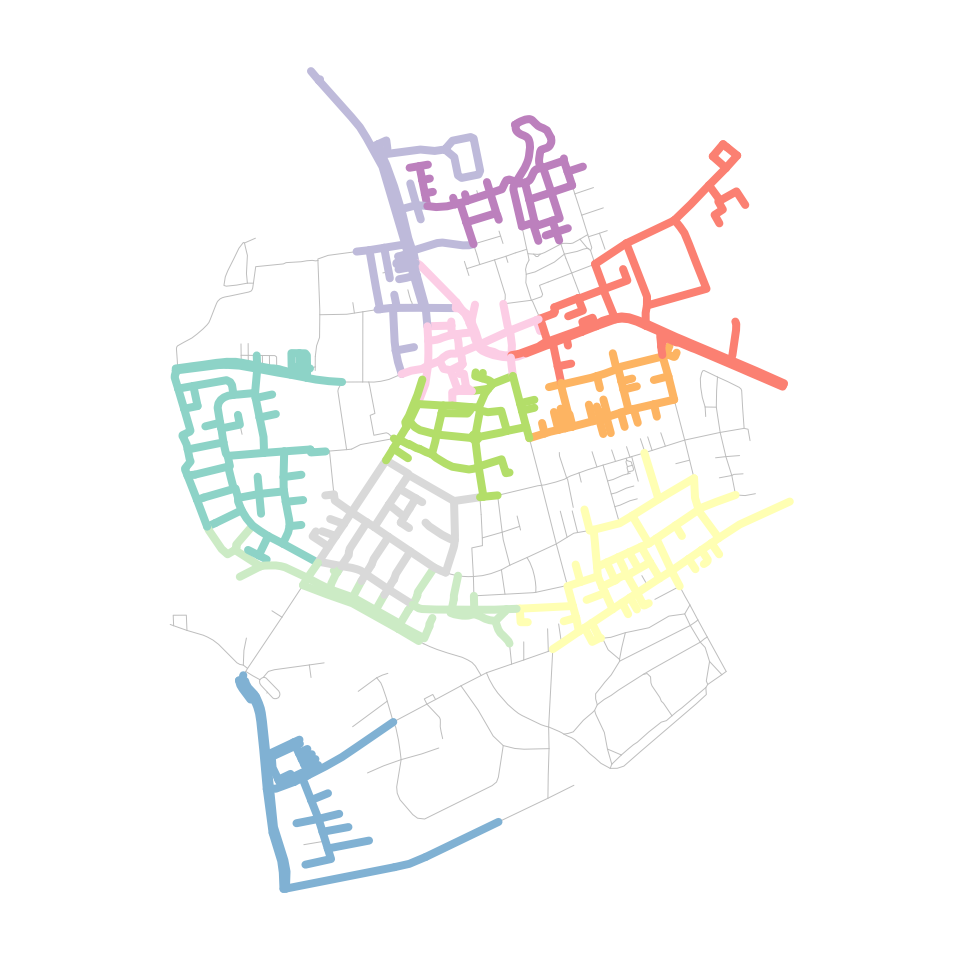
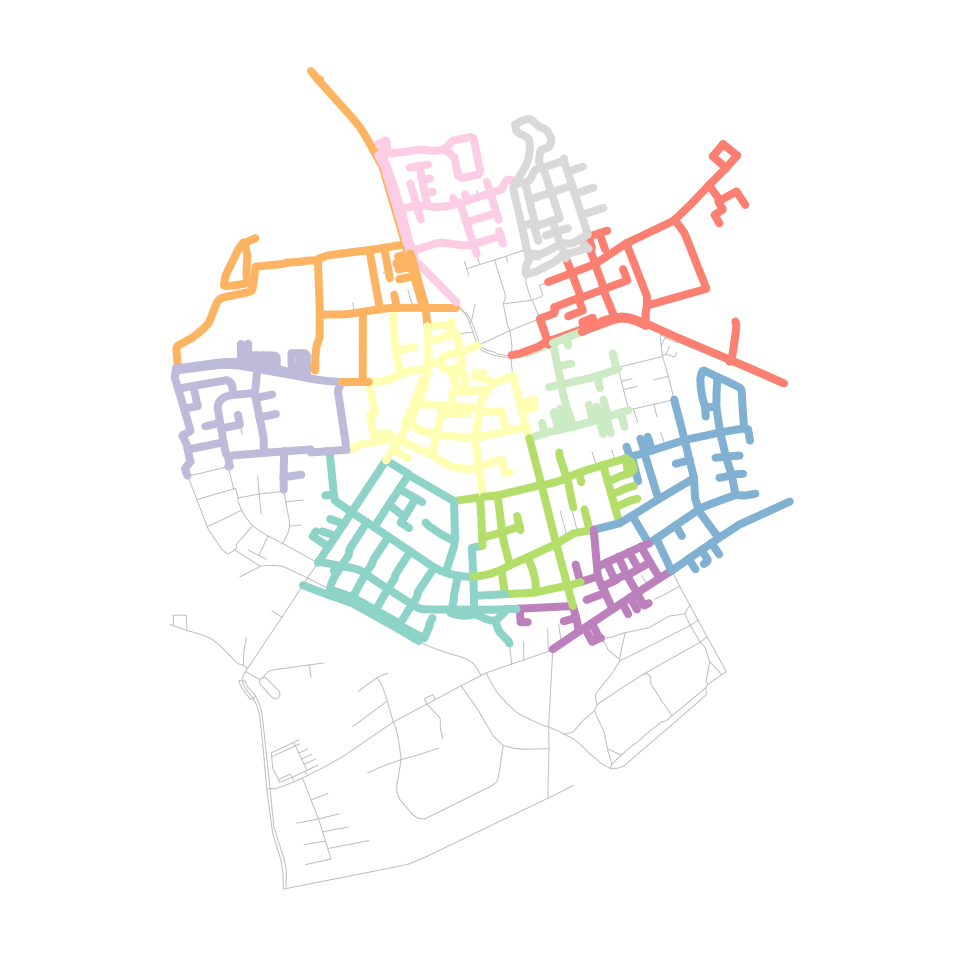
Built site for sfnetworks: 0.6.2@ba38d13

diff --git a/articles/sfn02_preprocess_clean.html b/articles/sfn02_preprocess_clean.html
@@ -461,12 +461,12 @@ different combination techniques when simplifying the network.</p>
 <span><span class="co">#&gt; # Bounding box:  xmin: 0 ymin: -1 xmax: 7 ymax: 3</span></span>
 <span><span class="co">#&gt;    from    to              x  flow type    foo bar  </span></span>
 <span><span class="co">#&gt;   &lt;int&gt; &lt;int&gt;   &lt;LINESTRING&gt; &lt;int&gt; &lt;chr&gt; &lt;int&gt; &lt;chr&gt;</span></span>
-<span><span class="co">#&gt; 1    10     9 (6 1.2, 5.8 1)     2 path     11 b    </span></span>
-<span><span class="co">#&gt; 2    11    10 (6.2 1, 6 1.2)    10 path      9 n    </span></span>
-<span><span class="co">#&gt; 3     9    12 (5.8 1, 6 0.8)     3 path      4 m    </span></span>
-<span><span class="co">#&gt; 4    12    11 (6 0.8, 6.2 1)     8 path      8 d    </span></span>
-<span><span class="co">#&gt; 5    11    15   (6.2 1, 7 1)     7 path      1 q    </span></span>
-<span><span class="co">#&gt; 6    10    13   (6 1.2, 6 2)     3 path      7 f    </span></span>
+<span><span class="co">#&gt; 1    10     9 (6 1.2, 5.8 1)     9 path     11 s    </span></span>
+<span><span class="co">#&gt; 2    11    10 (6.2 1, 6 1.2)     5 path     15 v    </span></span>
+<span><span class="co">#&gt; 3     9    12 (5.8 1, 6 0.8)     1 path      5 z    </span></span>
+<span><span class="co">#&gt; 4    12    11 (6 0.8, 6.2 1)     4 path      4 c    </span></span>
+<span><span class="co">#&gt; 5    11    15   (6.2 1, 7 1)     3 path      3 j    </span></span>
+<span><span class="co">#&gt; 6    10    13   (6 1.2, 6 2)     8 path     13 b    </span></span>
 <span><span class="co">#&gt; # … with 9 more rows</span></span>
 <span><span class="co">#&gt; #</span></span>
 <span><span class="co">#&gt; # Node Data:     15 × 1</span></span>
@@ -494,8 +494,8 @@ different combination techniques when simplifying the network.</p>
 <span><span class="co">#&gt; # A tibble: 2 × 7</span></span>
 <span><span class="co">#&gt;    from    to               x  flow type    foo bar  </span></span>
 <span><span class="co">#&gt;   &lt;int&gt; &lt;int&gt;    &lt;LINESTRING&gt; &lt;int&gt; &lt;chr&gt; &lt;int&gt; &lt;chr&gt;</span></span>
-<span><span class="co">#&gt; 1     6     7      (4 3, 4 2)     8 path     13 g    </span></span>
-<span><span class="co">#&gt; 2     6     7 (4 3, 5 2, 4 2)     1 road      2 h</span></span></code></pre>
+<span><span class="co">#&gt; 1     6     7      (4 3, 4 2)    10 path      2 f    </span></span>
+<span><span class="co">#&gt; 2     6     7 (4 3, 5 2, 4 2)     4 road      7 p</span></span></code></pre>
 <div class="sourceCode" id="cb10"><pre class="downlit sourceCode r">
 <code class="sourceCode R"><span><span class="co"># Define how we want to combine the attributes.</span></span>
 <span><span class="co"># For the flows:</span></span>
@@ -526,7 +526,7 @@ different combination techniques when simplifying the network.</p>
 <span><span class="co">#&gt; # A tibble: 1 × 6</span></span>
 <span><span class="co">#&gt;    from    to            x  flow type    .tidygraph_edge_index</span></span>
 <span><span class="co">#&gt;   &lt;int&gt; &lt;int&gt; &lt;LINESTRING&gt; &lt;dbl&gt; &lt;chr&gt;   &lt;list&gt;               </span></span>
-<span><span class="co">#&gt; 1     6     7   (4 3, 4 2)     9 unknown &lt;int [2]&gt;</span></span></code></pre>
+<span><span class="co">#&gt; 1     6     7   (4 3, 4 2)    14 unknown &lt;int [2]&gt;</span></span></code></pre>
 <div class="sourceCode" id="cb11"><pre class="downlit sourceCode r">
 <code class="sourceCode R"><span><span class="fu"><a href="https://rdrr.io/r/graphics/plot.default.html" class="external-link">plot</a></span><span class="op">(</span><span class="fu"><a href="https://r-spatial.github.io/sf/reference/st_geometry.html" class="external-link">st_geometry</a></span><span class="op">(</span><span class="va">net</span>, <span class="st">"edges"</span><span class="op">)</span>, col <span class="op">=</span> <span class="fu">edge_colors</span><span class="op">(</span><span class="va">net</span><span class="op">)</span>, lwd <span class="op">=</span> <span class="fl">4</span><span class="op">)</span></span>
 <span><span class="fu"><a href="https://rdrr.io/r/graphics/plot.default.html" class="external-link">plot</a></span><span class="op">(</span><span class="fu"><a href="https://r-spatial.github.io/sf/reference/st_geometry.html" class="external-link">st_geometry</a></span><span class="op">(</span><span class="va">net</span>, <span class="st">"nodes"</span><span class="op">)</span>, pch <span class="op">=</span> <span class="fl">20</span>, cex <span class="op">=</span> <span class="fl">1.5</span>, add <span class="op">=</span> <span class="cn">TRUE</span><span class="op">)</span></span>
@@ -659,9 +659,9 @@ columns are not attributes!</p>
 <span><span class="co">#&gt; # A tibble: 4 × 6</span></span>
 <span><span class="co">#&gt;    from    to               x  flow type    .tidygraph_edge_index</span></span>
 <span><span class="co">#&gt;   &lt;int&gt; &lt;int&gt;    &lt;LINESTRING&gt; &lt;dbl&gt; &lt;chr&gt;                   &lt;int&gt;</span></span>
-<span><span class="co">#&gt; 1     1     2 (0 1, 1 1, 2 1)     8 road                        1</span></span>
-<span><span class="co">#&gt; 2     2     3      (2 1, 3 1)     2 road                        2</span></span>
-<span><span class="co">#&gt; 3     8     9      (4 3, 4 2)     9 unknown                     5</span></span>
+<span><span class="co">#&gt; 1     1     2 (0 1, 1 1, 2 1)     2 road                        1</span></span>
+<span><span class="co">#&gt; 2     2     3      (2 1, 3 1)     5 road                        2</span></span>
+<span><span class="co">#&gt; 3     8     9      (4 3, 4 2)    14 unknown                     5</span></span>
 <span><span class="co">#&gt; 4     9     4      (4 2, 4 1)     1 road                        6</span></span></code></pre>
 <div class="sourceCode" id="cb15"><pre class="downlit sourceCode r">
 <code class="sourceCode R"><span></span>
@@ -692,8 +692,8 @@ columns are not attributes!</p>
 <span><span class="co">#&gt; # A tibble: 2 × 6</span></span>
 <span><span class="co">#&gt;    from    to  flow type    .tidygraph_edge_index                    x</span></span>
 <span><span class="co">#&gt;   &lt;int&gt; &lt;int&gt; &lt;dbl&gt; &lt;chr&gt;   &lt;list&gt;                        &lt;LINESTRING&gt;</span></span>
-<span><span class="co">#&gt; 1     1     2    10 road    &lt;int [2]&gt;             (0 1, 1 1, 2 1, 3 1)</span></span>
-<span><span class="co">#&gt; 2     7     3    10 unknown &lt;int [2]&gt;                  (4 3, 4 2, 4 1)</span></span></code></pre>
+<span><span class="co">#&gt; 1     1     2     7 road    &lt;int [2]&gt;             (0 1, 1 1, 2 1, 3 1)</span></span>
+<span><span class="co">#&gt; 2     7     3    15 unknown &lt;int [2]&gt;                  (4 3, 4 2, 4 1)</span></span></code></pre>
 <p>Secondly, it is possible to only remove those pseudo nodes for which
 attributes among their incident edges are equal. To do this, set
 <code>require_equal = TRUE</code>. Optionally, you can provide a list of
@@ -818,9 +818,9 @@ for the sake of completeness, we will still show it:</p>
 <span><span class="co">#&gt; # Bounding box:  xmin: 0 ymin: -1 xmax: 7 ymax: 3</span></span>
 <span><span class="co">#&gt;    from    to  flow type  .tidygraph_edge_index            x</span></span>
 <span><span class="co">#&gt;   &lt;int&gt; &lt;int&gt; &lt;dbl&gt; &lt;chr&gt; &lt;list&gt;                &lt;LINESTRING&gt;</span></span>
-<span><span class="co">#&gt; 1     2     3     2 road  &lt;int [1]&gt;               (3 1, 4 1)</span></span>
-<span><span class="co">#&gt; 2     3     4    10 path  &lt;int [1]&gt;             (4 1, 5.8 1)</span></span>
-<span><span class="co">#&gt; 3     5     2     7 road  &lt;int [1]&gt;               (3 2, 3 1)</span></span>
+<span><span class="co">#&gt; 1     2     3     5 road  &lt;int [1]&gt;               (3 1, 4 1)</span></span>
+<span><span class="co">#&gt; 2     3     4     2 path  &lt;int [1]&gt;             (4 1, 5.8 1)</span></span>
+<span><span class="co">#&gt; 3     5     2     8 road  &lt;int [1]&gt;               (3 2, 3 1)</span></span>
 <span><span class="co">#&gt; # … with 11 more rows</span></span></code></pre>
 <p>The combination of the cluster index and the component index can now
 be used to define the groups of nodes to be contracted. Nodes that form
@@ -888,10 +888,10 @@ columns are not attributes!</p>
 <span><span class="co">#&gt; # A tibble: 4 × 5</span></span>
 <span><span class="co">#&gt;         x .tidygraph_node_index   cls   cmp is_priority</span></span>
 <span><span class="co">#&gt;   &lt;POINT&gt;                 &lt;int&gt; &lt;int&gt; &lt;int&gt; &lt;lgl&gt;      </span></span>
-<span><span class="co">#&gt; 1 (5.8 1)                     5     4     1 TRUE       </span></span>
-<span><span class="co">#&gt; 2 (6 0.8)                    11     4     1 TRUE       </span></span>
+<span><span class="co">#&gt; 1 (5.8 1)                     5     4     1 FALSE      </span></span>
+<span><span class="co">#&gt; 2 (6 0.8)                    11     4     1 FALSE      </span></span>
 <span><span class="co">#&gt; 3 (6 1.2)                    12     4     1 FALSE      </span></span>
-<span><span class="co">#&gt; 4 (6.2 1)                    14     4     1 TRUE</span></span></code></pre>
+<span><span class="co">#&gt; 4 (6.2 1)                    14     4     1 FALSE</span></span></code></pre>
 <div class="sourceCode" id="cb22"><pre class="downlit sourceCode r">
 <code class="sourceCode R"><span><span class="co"># Define how we want to combine the attributes.</span></span>
 <span><span class="co"># For the boolean is_priority variable:</span></span>
@@ -925,7 +925,7 @@ columns are not attributes!</p>
 <span><span class="co">#&gt; # A tibble: 1 × 3</span></span>
 <span><span class="co">#&gt;   .tidygraph_node_index is_priority       x</span></span>
 <span><span class="co">#&gt;   &lt;list&gt;                &lt;lgl&gt;       &lt;POINT&gt;</span></span>
-<span><span class="co">#&gt; 1 &lt;int [4]&gt;             TRUE          (6 1)</span></span></code></pre>
+<span><span class="co">#&gt; 1 &lt;int [4]&gt;             FALSE         (6 1)</span></span></code></pre>
 </div>
 <div class="section level3">
 <h3 id="overview">Overview<a class="anchor" aria-label="anchor" href="#overview"></a>

diff --git a/articles/sfn05_morphers.html b/articles/sfn05_morphers.html
@@ -190,9 +190,9 @@ is assigned to, and automatically merge those changes back into the
 <span><span class="co">#&gt; # Bounding box:  xmin: 4150707 ymin: 3206375 xmax: 4152367 ymax: 3208565</span></span>
 <span><span class="co">#&gt;    from    to name                  type                          geometry group</span></span>
 <span><span class="co">#&gt;   &lt;int&gt; &lt;int&gt; &lt;chr&gt;                 &lt;fct&gt;                 &lt;LINESTRING [m]&gt; &lt;int&gt;</span></span>
-<span><span class="co">#&gt; 1     1     2 Havixbecker Strasse   residential (4151491 3207923, 4151474…     8</span></span>
-<span><span class="co">#&gt; 2     3     4 Pienersallee          secondary   (4151398 3207777, 4151390…     8</span></span>
-<span><span class="co">#&gt; 3     5     6 Schulte-Bernd-Strasse residential (4151408 3207539, 4151417…     7</span></span>
+<span><span class="co">#&gt; 1     1     2 Havixbecker Strasse   residential (4151491 3207923, 4151474…    12</span></span>
+<span><span class="co">#&gt; 2     3     4 Pienersallee          secondary   (4151398 3207777, 4151390…     2</span></span>
+<span><span class="co">#&gt; 3     5     6 Schulte-Bernd-Strasse residential (4151408 3207539, 4151417…     2</span></span>
 <span><span class="co">#&gt; # … with 848 more rows</span></span></code></pre>
 <div class="sourceCode" id="cb3"><pre class="downlit sourceCode r">
 <code class="sourceCode R"><span><span class="co"># The algorithm detected 34 communities.</span></span>
@@ -201,7 +201,7 @@ is assigned to, and automatically merge those changes back into the
 <span>  <span class="fu"><a href="https://dplyr.tidyverse.org/reference/pull.html" class="external-link">pull</a></span><span class="op">(</span><span class="va">group</span><span class="op">)</span> <span class="op"><a href="https://magrittr.tidyverse.org/reference/pipe.html" class="external-link">%&gt;%</a></span></span>
 <span>  <span class="fu"><a href="https://rdrr.io/r/base/unique.html" class="external-link">unique</a></span><span class="op">(</span><span class="op">)</span> <span class="op"><a href="https://magrittr.tidyverse.org/reference/pipe.html" class="external-link">%&gt;%</a></span></span>
 <span>  <span class="fu"><a href="https://rdrr.io/r/base/length.html" class="external-link">length</a></span><span class="op">(</span><span class="op">)</span></span>
-<span><span class="co">#&gt; [1] 34</span></span></code></pre></div>
+<span><span class="co">#&gt; [1] 31</span></span></code></pre></div>
 <p>In all grouping functions in <code>tidygraph</code>, the group index
 <code>1</code> belongs the largest group, the index <code>2</code> to
 the second largest group, et cetera. Lets plot only the first third of
@@ -643,8 +643,8 @@ to the geometry of the first set member.</p>
 <span><span class="co">#&gt; # A tibble: 2 × 6</span></span>
 <span><span class="co">#&gt;    from    to name         type                                   geometry  flow</span></span>
 <span><span class="co">#&gt;   &lt;int&gt; &lt;int&gt; &lt;chr&gt;        &lt;fct&gt;                          &lt;LINESTRING [m]&gt; &lt;int&gt;</span></span>
-<span><span class="co">#&gt; 1   118   119 NA           service (4150716 3207080, 4150715 3207108, 415…    57</span></span>
-<span><span class="co">#&gt; 2   118   119 Pienersallee service      (4150716 3207080, 4150752 3207067)    81</span></span></code></pre>
+<span><span class="co">#&gt; 1   118   119 NA           service (4150716 3207080, 4150715 3207108, 415…    77</span></span>
+<span><span class="co">#&gt; 2   118   119 Pienersallee service      (4150716 3207080, 4150752 3207067)    19</span></span></code></pre>
 <div class="sourceCode" id="cb16"><pre class="downlit sourceCode r">
 <code class="sourceCode R"><span><span class="co"># Simplify the network.</span></span>
 <span><span class="co"># We summarise the flow attribute by taking the sum of the merged edge flows.</span></span>
@@ -668,7 +668,7 @@ to the geometry of the first set member.</p>
 <span><span class="co">#&gt; # A tibble: 1 × 7</span></span>
 <span><span class="co">#&gt;    from    to name  type                                  geometry  flow .tidy…¹</span></span>
 <span><span class="co">#&gt;   &lt;int&gt; &lt;int&gt; &lt;chr&gt; &lt;fct&gt;                         &lt;LINESTRING [m]&gt; &lt;dbl&gt; &lt;list&gt; </span></span>
-<span><span class="co">#&gt; 1   118   119 NA    service (4150716 3207080, 4150715 3207108, 41…   138 &lt;int&gt;  </span></span>
+<span><span class="co">#&gt; 1   118   119 NA    service (4150716 3207080, 4150715 3207108, 41…    96 &lt;int&gt;  </span></span>
 <span><span class="co">#&gt; # … with abbreviated variable name ¹.tidygraph_edge_index</span></span></code></pre>
 </div>
 <div class="section level3">
@@ -802,12 +802,12 @@ example just to get an idea of how this would work:</p>
 <span><span class="co">#&gt; # Bounding box:  xmin: 4150707 ymin: 3206375 xmax: 4152367 ymax: 3208565</span></span>
 <span><span class="co">#&gt;            geometry building post_code</span></span>
 <span><span class="co">#&gt;         &lt;POINT [m]&gt; &lt;lgl&gt;        &lt;dbl&gt;</span></span>
-<span><span class="co">#&gt; 1 (4151491 3207923) FALSE           NA</span></span>
+<span><span class="co">#&gt; 1 (4151491 3207923) TRUE          1020</span></span>
 <span><span class="co">#&gt; 2 (4151474 3207946) TRUE          1020</span></span>
 <span><span class="co">#&gt; 3 (4151398 3207777) TRUE          1020</span></span>
 <span><span class="co">#&gt; 4 (4151370 3207673) TRUE          1020</span></span>
-<span><span class="co">#&gt; 5 (4151408 3207539) TRUE          1020</span></span>
-<span><span class="co">#&gt; 6 (4151421 3207592) TRUE          1020</span></span>
+<span><span class="co">#&gt; 5 (4151408 3207539) FALSE           NA</span></span>
+<span><span class="co">#&gt; 6 (4151421 3207592) FALSE           NA</span></span>
 <span><span class="co">#&gt; # … with 695 more rows</span></span>
 <span><span class="co">#&gt; #</span></span>
 <span><span class="co">#&gt; # Edge Data:     851 × 5</span></span>
@@ -873,7 +873,7 @@ requires a geographic CRS for that.</p>
 <span><span class="co">#&gt; # Bounding box:  xmin: 4150707 ymin: 3206375 xmax: 4152367 ymax: 3208565</span></span>
 <span><span class="co">#&gt;            geometry building</span></span>
 <span><span class="co">#&gt;         &lt;POINT [m]&gt; &lt;lgl&gt;   </span></span>
-<span><span class="co">#&gt; 1 (4151491 3207923) FALSE   </span></span>
+<span><span class="co">#&gt; 1 (4151491 3207923) TRUE    </span></span>
 <span><span class="co">#&gt; 2 (4151474 3207946) TRUE    </span></span>
 <span><span class="co">#&gt; 3 (4151398 3207777) TRUE    </span></span>
 <span><span class="co">#&gt; # … with 698 more rows</span></span></code></pre>
